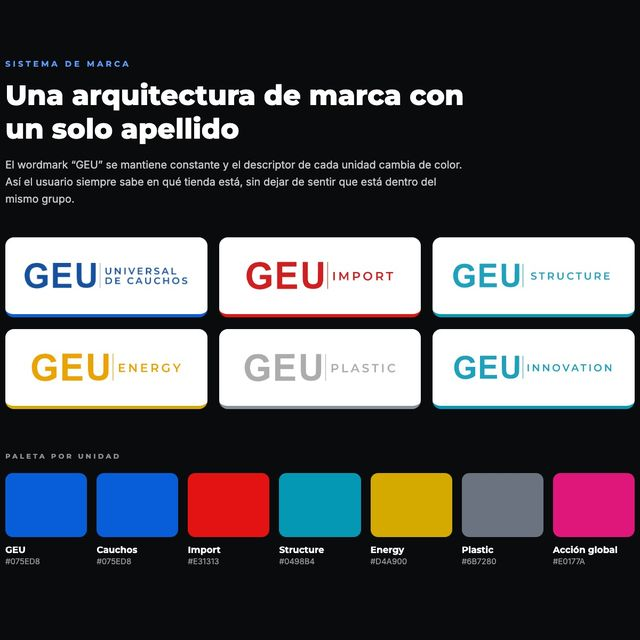
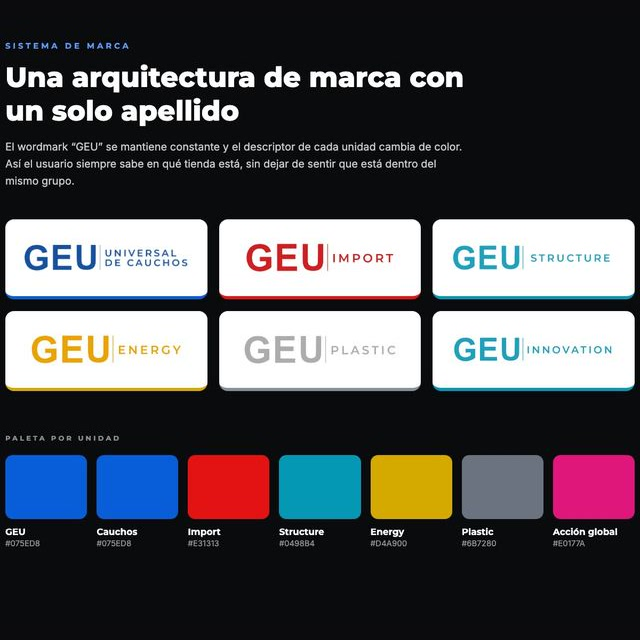
Show case pieces uncropped: full-width originals and cleaner crops
- Pieces can point to their original image (src) and render full width at
  their own proportions (wide) instead of a square crop.
- Kliniu "Puntos" and "Servicio" use the original wide images; Totalpars
  "Bus rayos X" and "Categorías" use full 1920x1080 frames.
- Recrop GEU "Sistema de marca" and Totalpars "App móvil" to remove cut UI.

Changed region(s): [[0.0, 0.0625, 1.0, 0.75], [0.0, 0.7812, 1.0, 0.9062]]

diff --git a/components/work-grid.tsx b/components/work-grid.tsx
@@ -6,7 +6,7 @@ import type { WheelProject } from "@/components/project-wheel";
 import "./work-grid.css";
 import CaseExperience, { caseTags, leadClip } from "./case-experience";
 
-type Piece = { id: string; label: string };
+type Piece = { id: string; label: string; src?: string; wide?: boolean };
 type Case = { desc: string; scope: string[]; pieces: Piece[] };
 type WorkProject = WheelProject & { preview?: string };
 
@@ -24,7 +24,7 @@ const cases: Record<string, Case> = {
   "Kliniu": {
     desc: "Dispensadores y soluciones de limpieza. Creamos el nombre, la identidad, la mascota y una tienda con catálogo y puntos de venta.",
     scope: ["Naming", "Identidad", "Mascota", "Tienda y catálogo"],
-    pieces: [{ id: "kli-prod", label: "Línea de producto" }, { id: "kli-masc", label: "Mascota" }, { id: "kli-puntos", label: "Puntos Kliniu" }, { id: "kli-serv", label: "Servicio" }],
+    pieces: [{ id: "kli-prod", label: "Línea de producto" }, { id: "kli-masc", label: "Mascota" }, { id: "kli-puntos", label: "Puntos Kliniu", src: "/assets/project-kliniu-puntos.jpg", wide: true }, { id: "kli-serv", label: "Servicio", src: "/assets/project-kliniu-service.jpg", wide: true }],
   },
   "GEU": {
     desc: "Seis unidades de negocio bajo una sola marca. Diseñamos el sistema visual, el ecosistema web multimarca y a Gus, su mascota.",
@@ -34,7 +34,7 @@ const cases: Record<string, Case> = {
   "Totalpars": {
     desc: "Repuestos para transporte masivo, de carga y maquinaria. Hicimos su identidad, una búsqueda por sistema del bus y la tienda web y móvil.",
     scope: ["Identidad", "UX de búsqueda", "Tienda web", "App móvil"],
-    pieces: [{ id: "tp-xray", label: "Bus rayos X" }, { id: "tp-cat", label: "Categorías" }, { id: "tp-movil", label: "App móvil" }],
+    pieces: [{ id: "tp-xray", label: "Bus rayos X", src: "/assets/pieces/tp-xray-full.jpg", wide: true }, { id: "tp-cat", label: "Categorías", src: "/assets/pieces/tp-cat-full.jpg", wide: true }, { id: "tp-movil", label: "App móvil" }],
   },
   "Drokex": {
     desc: "Catálogo digital para que las empresas de LATAM vendan al mundo. Creamos la marca, la plataforma con globo interactivo y un agente 3D.",

diff --git a/components/case-experience.tsx b/components/case-experience.tsx
@@ -4,7 +4,8 @@ import { useEffect, useRef } from "react";
 import type { ProjectClip, WheelProject } from "@/components/project-wheel";
 import "./case-experience.css";
 
-export type CaseData = { desc: string; scope: string[]; pieces: { id: string; label: string }[] };
+/** `src` overrides /assets/pieces/<id>.jpg; `wide` shows the piece full width at its own proportions (no square crop). */
+export type CaseData = { desc: string; scope: string[]; pieces: { id: string; label: string; src?: string; wide?: boolean }[] };
 
 type Shot = { key: string; kind: "video" | "image"; src: string; label?: string; clip?: ProjectClip };
 
@@ -43,7 +44,10 @@ export default function CaseExperience({
   const lead = leadClip(clips);
   const allShots: Shot[] = [
     ...clips.filter((clip) => clip !== lead).map((clip) => ({ key: clip.src, kind: (clip.kind === "image" ? "image" : "video") as Shot["kind"], src: clip.src, clip })),
-    ...(data?.pieces ?? []).map((piece) => ({ key: piece.id, kind: "image" as const, src: `/assets/pieces/${piece.id}.jpg`, label: piece.label })),
+    ...(data?.pieces ?? []).map((piece) => {
+      const src = piece.src ?? `/assets/pieces/${piece.id}.jpg`;
+      return { key: piece.id, kind: "image" as const, src, label: piece.label, clip: piece.wide ? { src, duration: 0, kind: "image" as const } : undefined };
+    }),
   ];
   // Films run full width (16:9); the square brand pieces go in a 3-up grid so nothing gets cropped.
   const wide = (shot: Shot) => shot.kind === "video" || !!shot.clip;
